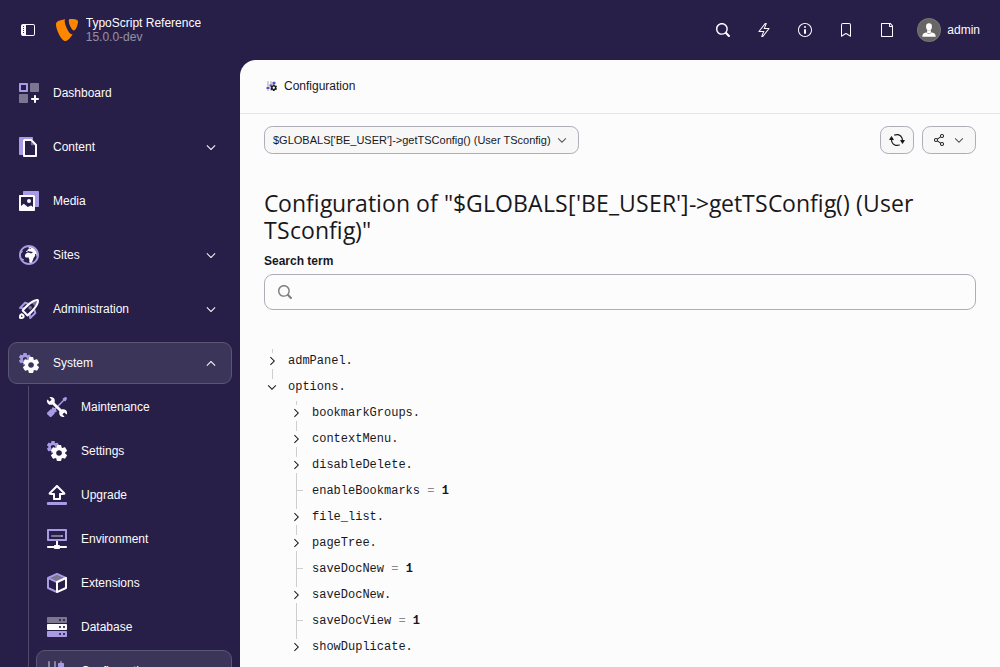
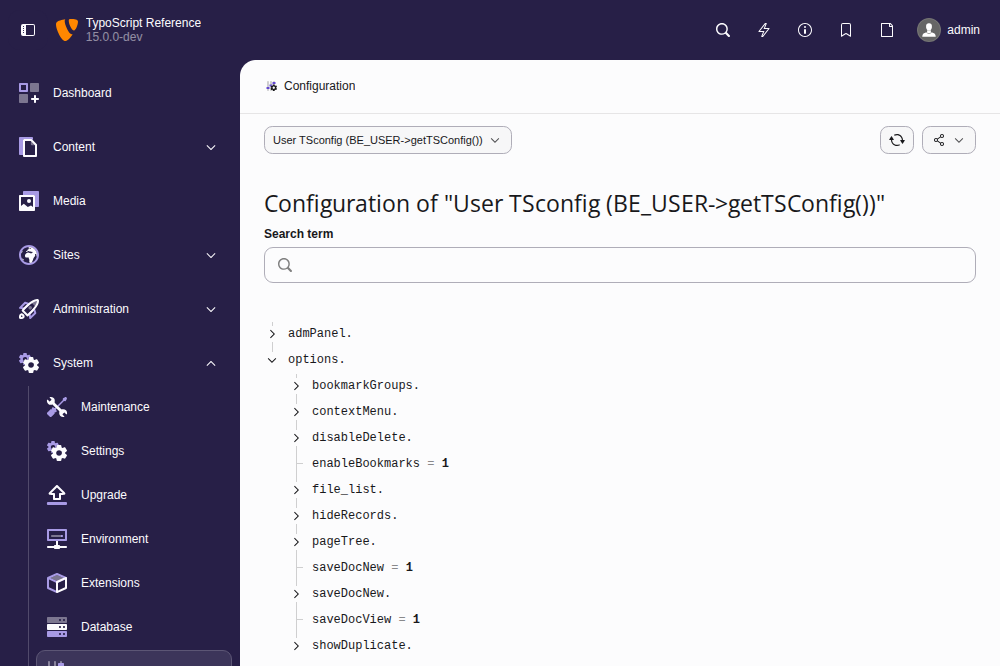
[TASK] Show the site bases that showDomainNameWithTitle adds (#2131)
The option had neither an example nor an image. The generator now
takes the page tree of a second administrator with the option,
which sees only three example sites. They are hidden from the other
administrator, so the page tree of the other screenshots stays the
same. The option adds the base of the site, not a domain name, so
the description now says so.

Releases: main, 14.3
Assisted-by: Claude Opus 5.5 <noreply@anthropic.com>

diff --git a/Build/Screenshots/create-records.php b/Build/Screenshots/create-records.php
@@ -663,6 +663,46 @@ foreach ($gifbuilderExamples as $key => [$title, $cType, $snippetName, $object])
 file_put_contents(Environment::getConfigPath() . '/sites/data-processors/setup.typoscript', $setup);
 file_put_contents(Environment::getConfigPath() . '/sites/data-processors/constants.typoscript', $snippet('Gifbuilder/_codesnippets/_variant2Constants.typoscript'));
 
+// Sites of their own for the page tree of a second administrator, whose user
+// TSconfig changes the page tree: they have the names and domains an example
+// would have, and are hidden from "admin", so that the page tree of the other
+// screenshots stays the same. The second administrator has the password of
+// "admin", which run.sh sets.
+$pageConnection = GeneralUtility::makeInstance(ConnectionPool::class)->getConnectionForTable('pages');
+$otherRoots = array_map('intval', $pageConnection->select(['uid'], 'pages', ['pid' => 0, 'deleted' => 0])->fetchFirstColumn());
+$exampleSites = [
+    'company-website' => ['Company website', 'https://www.example.org/'],
+    'online-shop' => ['Online shop', 'https://shop.example.org/'],
+    'intranet' => ['Intranet', 'https://intranet.example.org/'],
+];
+$exampleRoots = [];
+$siteConfiguration = GeneralUtility::makeInstance(SiteFinder::class)->getSiteByRootPageId(1)->getConfiguration();
+// The DataHandler puts a new page first, so the last one is created first
+foreach (array_reverse($exampleSites) as $identifier => [$title, $base]) {
+    $dataHandler = $process(['pages' => ['NEWexample' => ['pid' => 0, 'title' => $title, 'is_siteroot' => 1, 'hidden' => 0]]]);
+    $exampleRoots[] = $dataHandler->substNEWwithIDs['NEWexample'];
+    $siteConfiguration['rootPageId'] = end($exampleRoots);
+    $siteConfiguration['base'] = $base;
+    GeneralUtility::makeInstance(SiteWriter::class)->write($identifier, $siteConfiguration);
+}
+$userConnection = GeneralUtility::makeInstance(ConnectionPool::class)->getConnectionForTable('be_users');
+$adminTsConfig = (string)$userConnection->select(['TSconfig'], 'be_users', ['username' => 'admin'])->fetchOne();
+$userConnection->update(
+    'be_users',
+    ['TSconfig' => $adminTsConfig . "\noptions.hideRecords.pages = " . implode(',', $exampleRoots) . "\n"],
+    ['username' => 'admin']
+);
+$process(['be_users' => ['NEWpageTree' => [
+    'pid' => 0,
+    'username' => 'pagetree',
+    'password' => 'Screenshots-2026!',
+    'admin' => 1,
+    // New users are disabled by default
+    'disable' => 0,
+    'TSconfig' => $snippet('UserTsconfig/_codesnippets/_showDomainNameWithTitle.tsconfig')
+        . 'options.hideRecords.pages = ' . implode(',', $otherRoots) . "\n",
+]]]);
+
 // The uids differ between TYPO3 versions, so screenshots.mjs reads them here
 GeneralUtility::mkdir_deep(Environment::getVarPath());
 file_put_contents(Environment::getVarPath() . '/screenshot-records.json', json_encode($uids, JSON_PRETTY_PRINT) . "\n");

diff --git a/Documentation/UserTsconfig/Options.rst b/Documentation/UserTsconfig/Options.rst
@@ -959,9 +959,21 @@ Properties
             :type: boolean
             :User TSconfig path: options.pageTree.showDomainNameWithTitle
 
-            If set, the domain name will be appended to the page title for
-            pages that have :guilabel:`Is root of web site?` checked in the page properties.
-            Useful if there are several domains in one page tree.
+            If set, the page tree shows the base of the site in square
+            brackets after the title of each page that is the root of a site.
+            This helps to tell the sites apart if one page tree holds several
+            sites.
+
+            ..  literalinclude:: _codesnippets/_showDomainNameWithTitle.tsconfig
+                :caption: EXT:my_sitepackage/Configuration/user.tsconfig
+
+            ..  figure:: /Images/GeneratedScreenshots/List/optionsPageTreeShowDomainNameWithTitle.png
+                :alt: The page tree with the pages "Company website
+                    [https://www.example.org/]", "Online shop
+                    [https://shop.example.org/]", and "Intranet
+                    [https://intranet.example.org/]".
+
+                The site roots with the base of their site
 
         ..  _useroptions-pagetree-searchbyfrontenduri:
 
